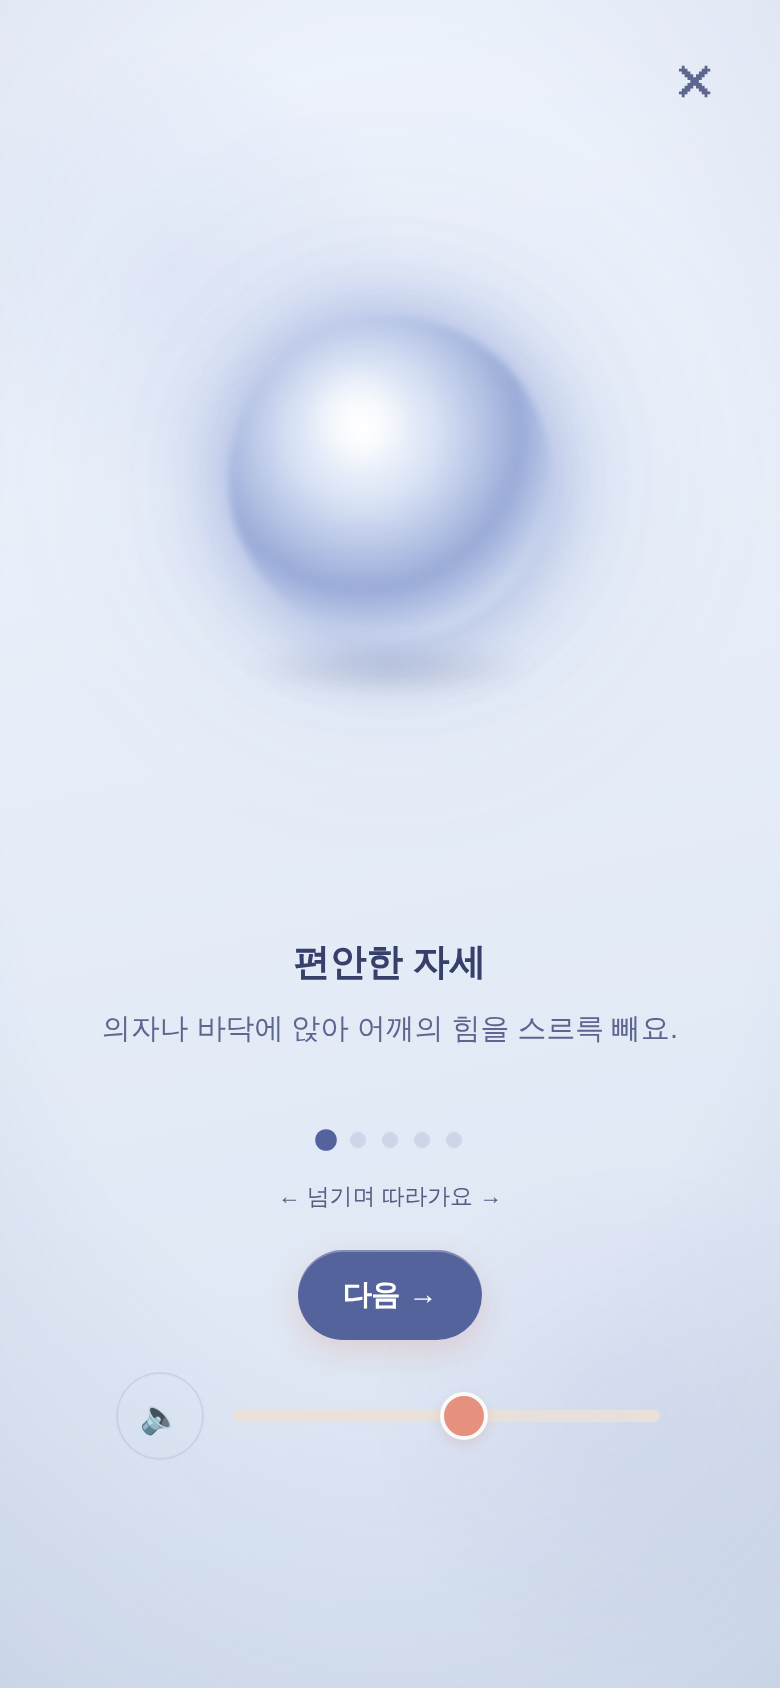
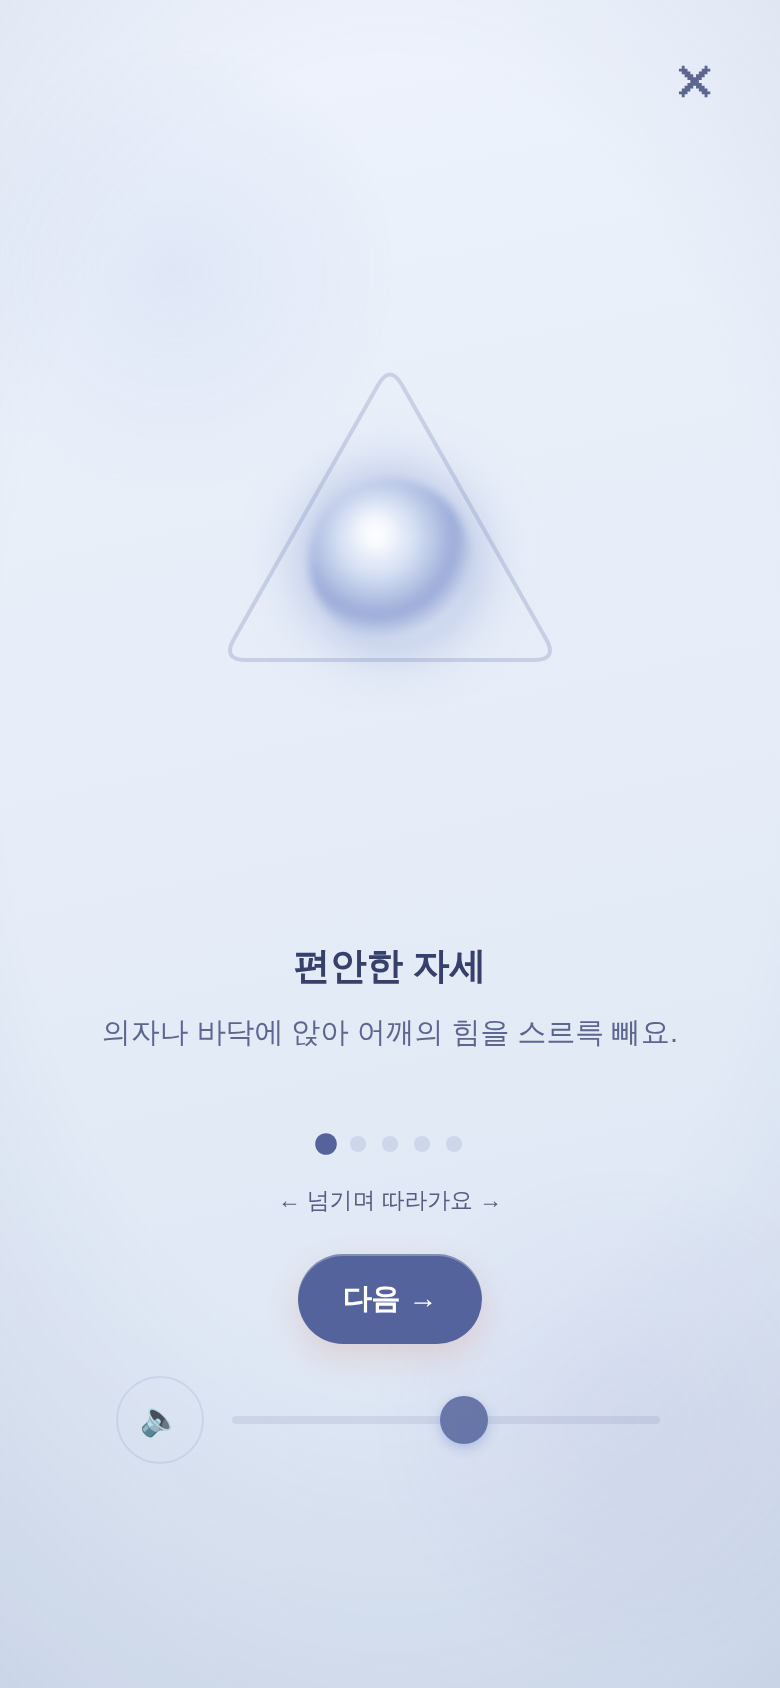
polish: 자율 업그레이드 사이클F — 삼각 궤적 마감 + 스토어 자산 동기
- 실기 캡처 검증에서 발견: 중심 오브가 삼각형 변 밖으로 삐져나옴 →
  무게중심(y≈114)에 맞춰 76px로 재배치
- 명상 볼륨 썸이 전역 주황 커스텀 썸에 덮이던 문제 → 테마 토큰 썸으로
  (다크=골드, 라이트=인디고)
- 스토어 명상 스크린샷을 삼각 궤적 디자인으로 재생성
- 스모크 211개 통과

Claude-Session: https://claude.ai/code/session_01BKSXzvx7JnDsncL3siULuh

diff --git a/style.css b/style.css
@@ -328,7 +328,9 @@ textarea:focus, .text-input:focus, input[type=time]:focus { outline: none; borde
 .med-sound { display: flex; align-items: center; gap: var(--s3); width: min(280px, 80%); opacity: 0.85; }
 .med-snd-btn { width: 44px; height: 44px; flex-shrink: 0; border-radius: 50%; border: 1px solid var(--med-track); background: transparent; color: var(--med-text); font-size: 1.1rem; cursor: pointer; display: flex; align-items: center; justify-content: center; transition: transform 0.1s; }
 .med-snd-btn:active { transform: scale(0.9); }
-.med-overlay .med-vol { flex: 1; accent-color: var(--med-on-bg); height: 4px; } /* 전역 range accent보다 우선 */
+.med-overlay .med-vol { flex: 1; height: 4px; background: var(--med-track); }
+.med-overlay .med-vol::-webkit-slider-thumb { background: var(--med-on-bg); box-shadow: 0 2px 6px var(--med-glow); border-color: transparent; } /* 전역 주황 썸 대신 테마 토큰 */
+.med-overlay .med-vol::-moz-range-thumb { background: var(--med-on-bg); border-color: transparent; }
 .med-guide { list-style: none; padding: 0; margin: var(--s2) 0 0; counter-reset: med; }
 .med-guide li { counter-increment: med; position: relative; padding: var(--s3) var(--s3) var(--s3) 46px; margin-bottom: var(--s2); background: var(--bg-sunken); border-radius: var(--r-md); opacity: 0; transform: translateY(10px); animation: medIn 0.5s var(--ease-soft) forwards; }
 .med-guide li::before { content: counter(med); position: absolute; left: 12px; top: 50%; transform: translateY(-50%); width: 24px; height: 24px; border-radius: 50%; background: var(--accent); color: #fff; display: flex; align-items: center; justify-content: center; font-size: var(--t-xs); font-weight: var(--w-bold); }
@@ -421,7 +423,7 @@ textarea:focus, .text-input:focus, input[type=time]:focus { outline: none; borde
 .cb-stage.med-idle .tb-dot { opacity: 0; }
 /* 중심 발광 오브 — 삼각형 안에서 호흡에 따라 은은히 차오르고 잦아듦 */
 .cb-orb { position: absolute; width: 84px; height: 84px; border-radius: 50%; background: var(--med-orb); filter: blur(2px); box-shadow: 0 0 26px 3px var(--med-glow); transition-property: opacity, box-shadow; transition-duration: inherit; transition-timing-function: var(--ease-breath); }
-.tb-viz .cb-orb { top: 58px; } /* 삼각형 무게중심 부근 */
+.tb-viz .cb-orb { width: 76px; height: 76px; top: 76px; } /* 삼각형 무게중심(≈y114)에 맞춤 — 변 밖으로 삐져나오지 않게 */
 /* 구체 윗부분 광택 하이라이트(입체감) */
 .cb-orb::before { content: ""; position: absolute; top: 16%; left: 22%; width: 36%; height: 30%; border-radius: 50%; background: radial-gradient(circle at 50% 50%, rgba(255,255,255,0.8), transparent 72%); filter: blur(2px); }
 .cb-stage.inhale .cb-orb, .cb-stage.hold .cb-orb { box-shadow: 0 0 46px 9px var(--med-glow); }
